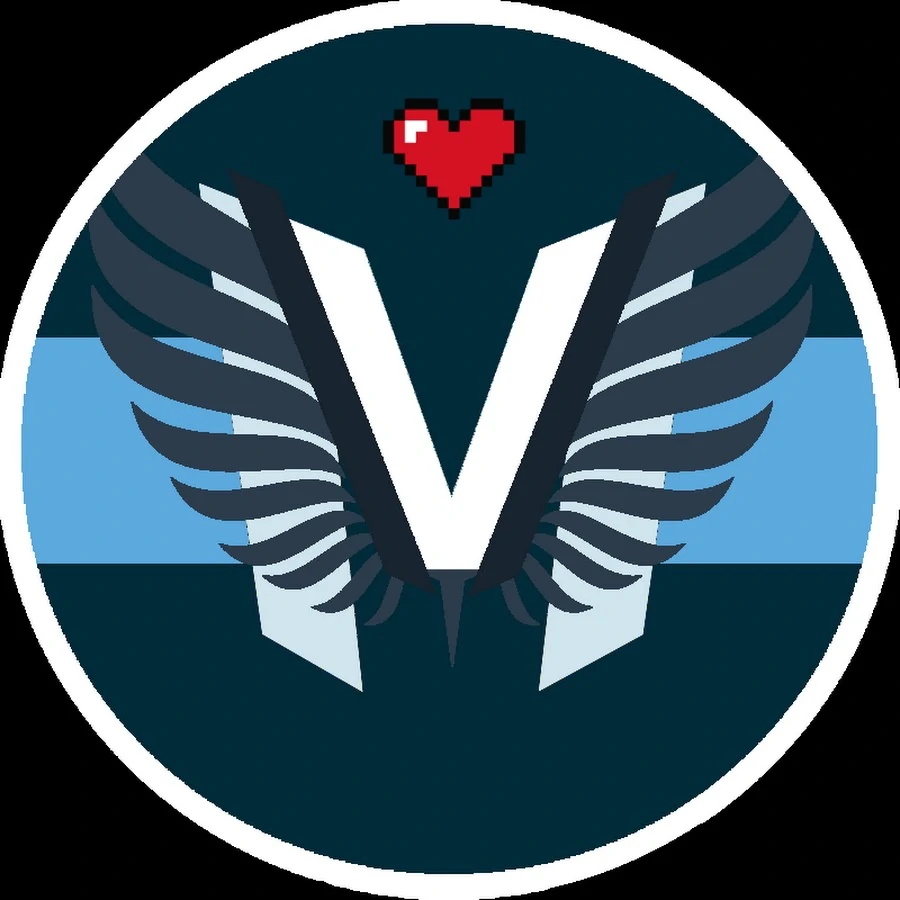
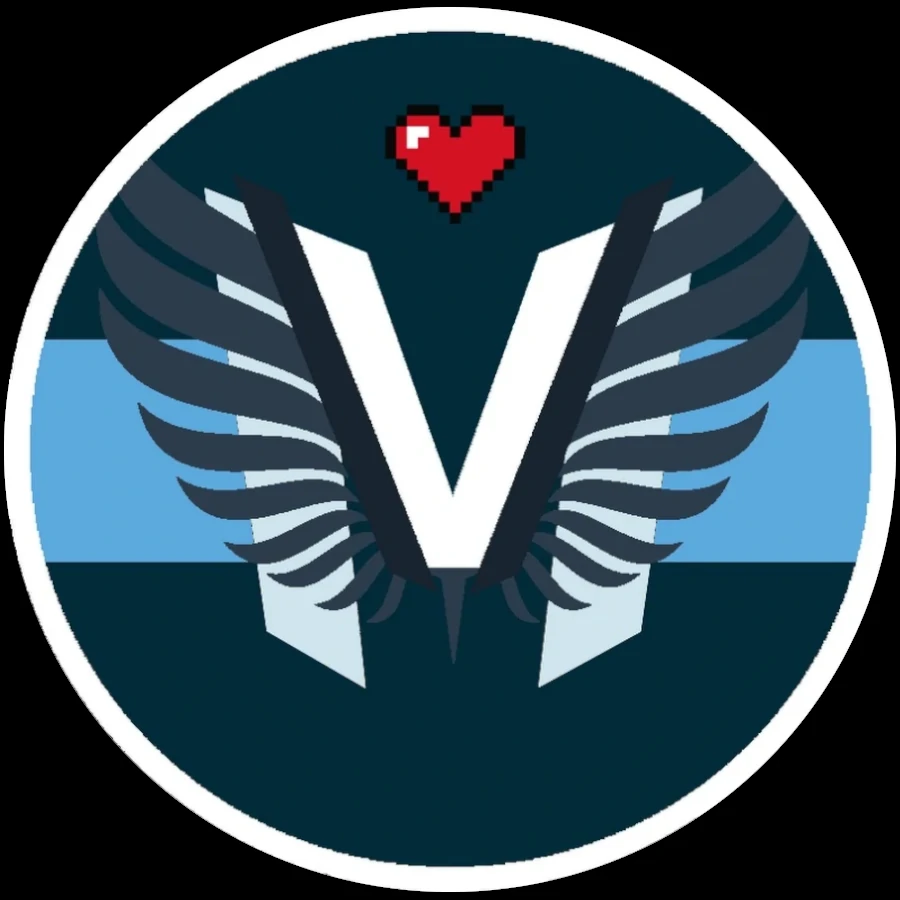
Refactoring
+fixed mv logo
+fixed npc position by using position absolute than margins

diff --git a/index.html b/index.html
@@ -284,7 +284,7 @@
 
             <div class="call-to-action">
                 <p>Find out more on the Ace Combat series</p><a href="https://www.acecombat.jp/" target="_blank"
-                    title="Ace Combat series">FLY <span><i class="ri-plane-line"></i></span></a>
+                    title="Ace Combat series">Visit <span><i class="ri-global-line"></i></span></a>
             </div>
         </section>
     </main>

diff --git a/css/remixicon.css b/css/remixicon.css
@@ -28,6 +28,7 @@
   .ri-close-circle-line:before { content: "\eb97"; }
   .ri-layout-grid-fill:before { content: "\ee8f"; }
   .ri-plane-line:before { content: "\f005"; }
+  .ri-global-line:before { content: "\edcf"; }
   .ri-github-fill:before { content: "\edca"; }
   .ri-twitter-fill:before { content: "\f23a"; }
   .ri-youtube-fill:before { content: "\f2d4"; }

diff --git a/css/style.css b/css/style.css
@@ -392,13 +392,13 @@ footer p:not(.disclaimer p) {
 }
 
 .hero .npc {
-    position: relative;
+    position: absolute;
+    left: 5.5%;
+    bottom: 14.3%;
     font-size: 15px;
-    margin-left: 60px;
-    margin-top: 30px;
     color: white;
-    width: 35%;
-    height: 25%;
+    width: 400px;
+    height: auto;
     opacity: .75;
 }
 
